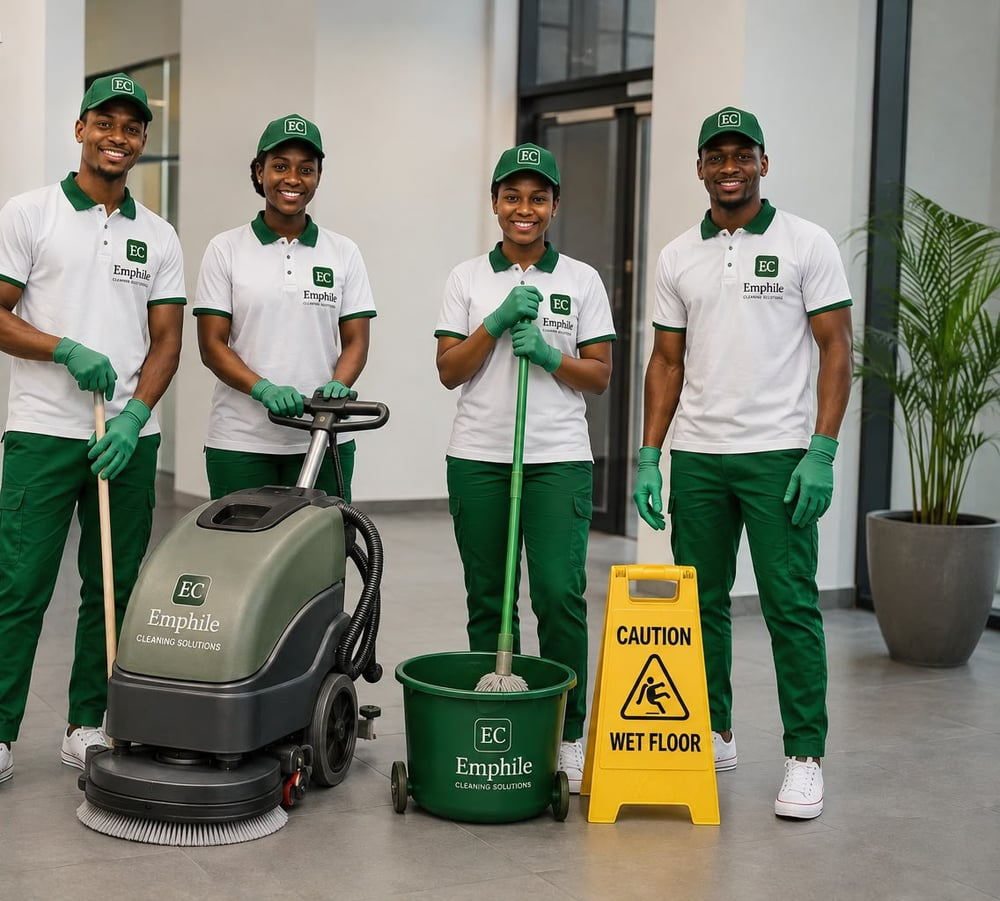
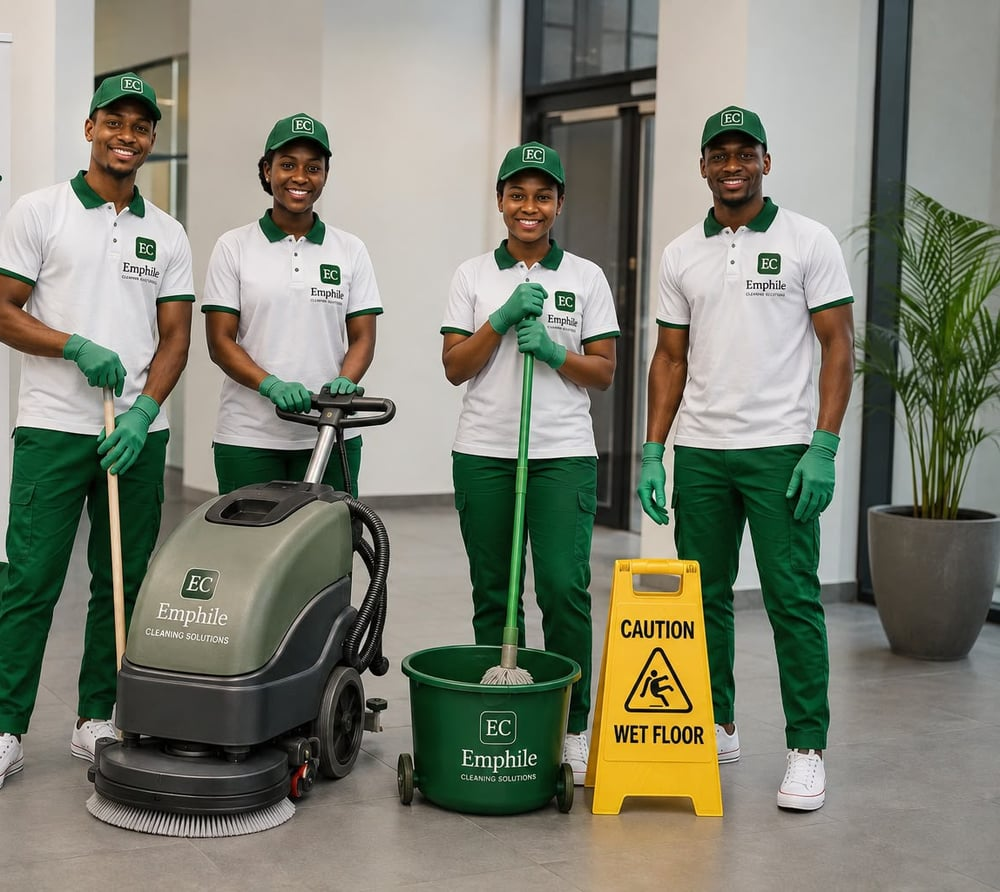
Adjust hero photo crop so the left-most staff member's foot isn't cut off

diff --git a/index.html b/index.html
@@ -161,7 +161,7 @@
   .hero-visual {
     position: relative; z-index: 2; flex: 1; max-width: 560px;
     border-radius: 20px; overflow: hidden; box-shadow: 0 30px 60px rgba(11,70,48,0.18);
-    aspect-ratio: 1136 / 1024;
+    aspect-ratio: 1148 / 1024;
   }
   .hero-visual img { width: 100%; height: 100%; object-fit: cover; display: block; }
   .hero-badge {
@@ -450,7 +450,7 @@
     </div>
   </div>
   <div class="hero-visual">
-    <img src="images/team-hero.jpg" alt="Emphile Cleaning Solutions uniformed team with cleaning equipment" width="1000" height="902" loading="eager">
+    <img src="images/team-hero.jpg" alt="Emphile Cleaning Solutions uniformed team with cleaning equipment" width="1000" height="892" loading="eager">
   </div>
 </section>
 
